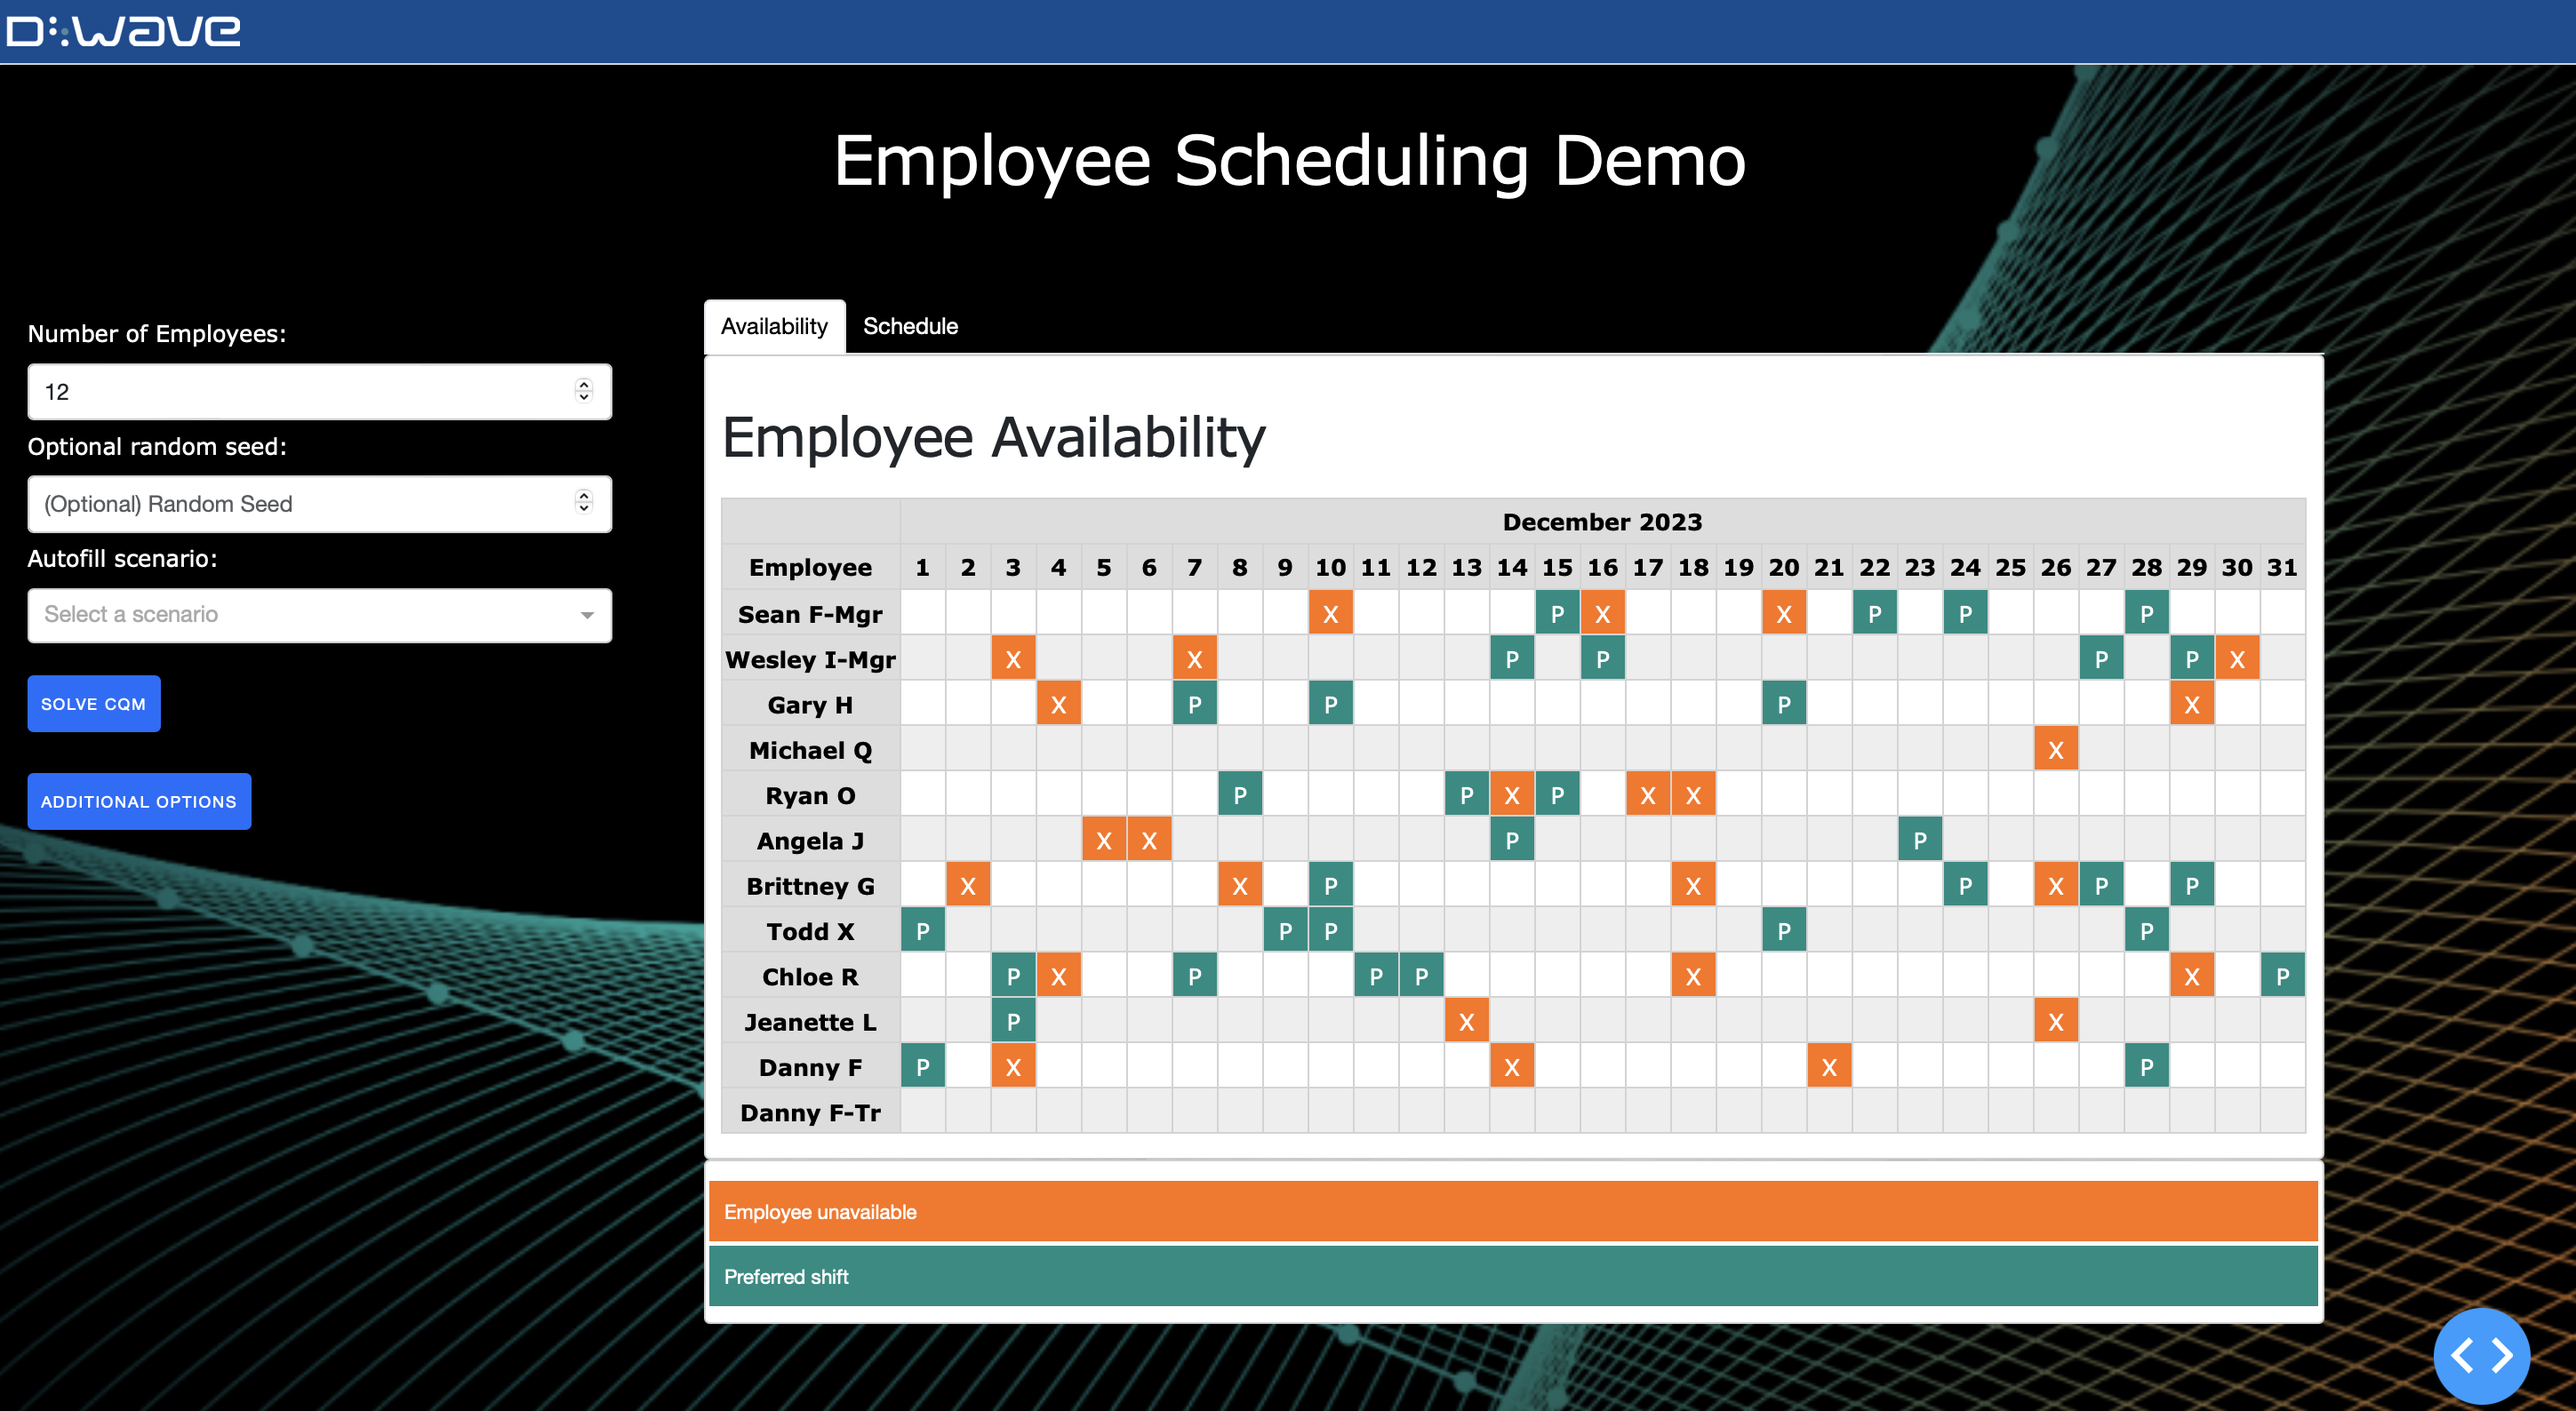
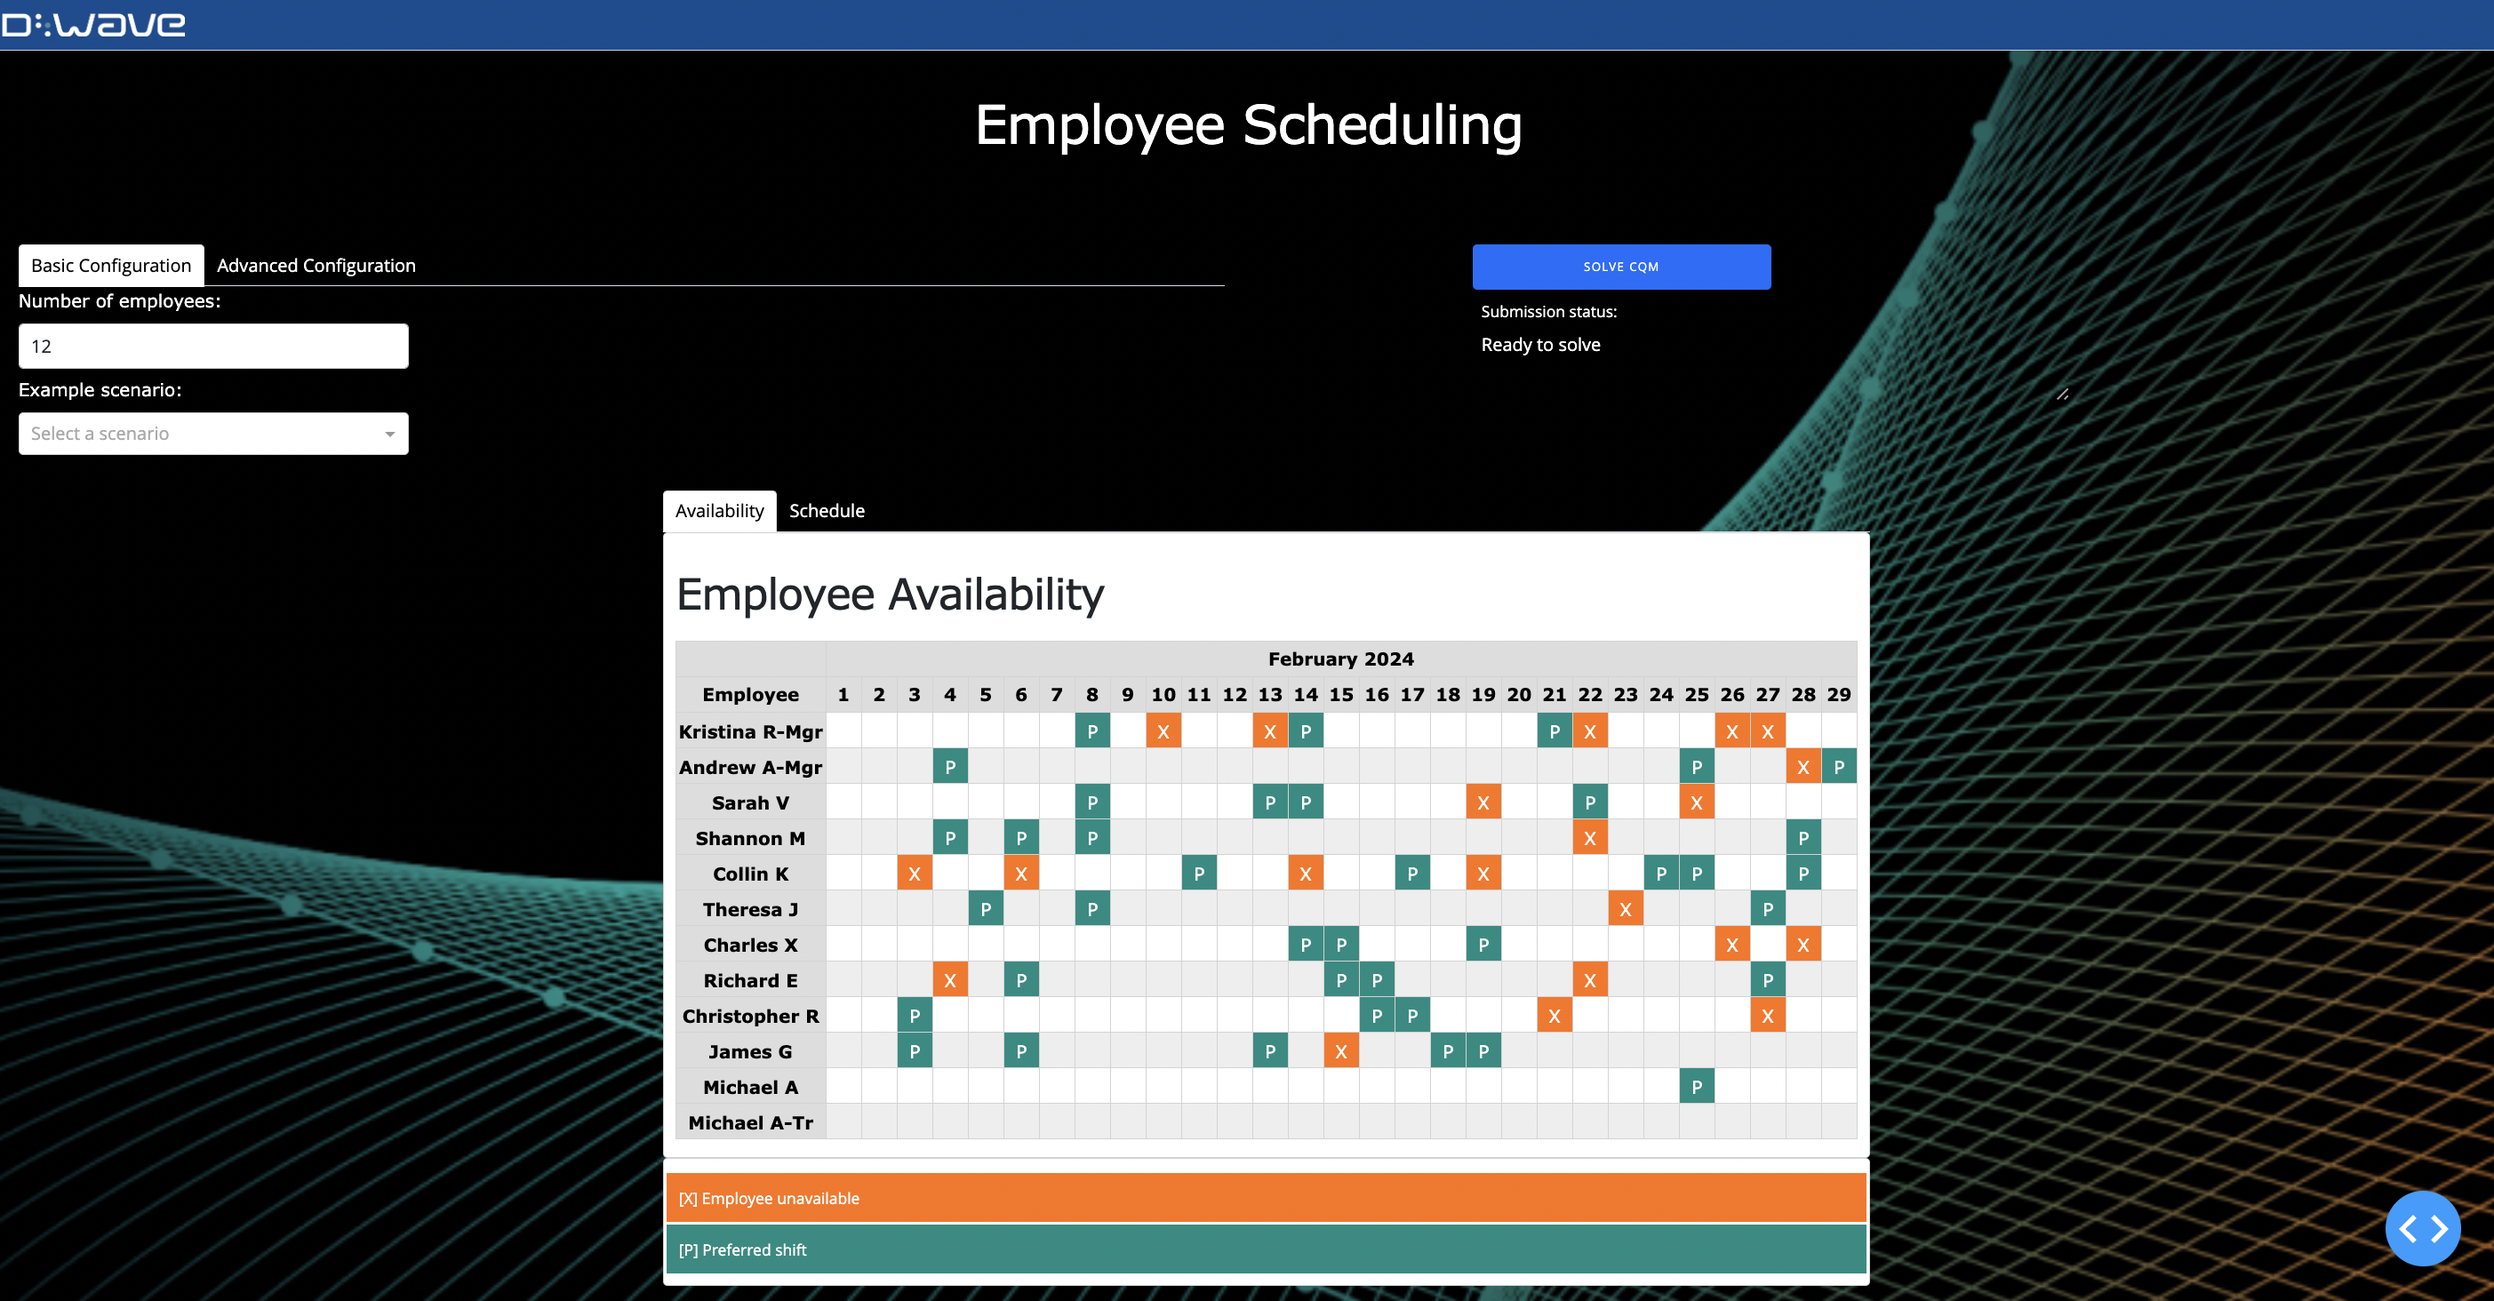
Edits from review feedback

diff --git a/app.py b/app.py
@@ -88,7 +88,7 @@ input_card = dbc.Card(
                                     dbc.Col([
 
                                         html.P(
-                                            "Number of Employees:  ",
+                                            "Number of employees:  ",
                                             style={"font-family": ff, "color": col},
                                         ),
                                         dbc.Input(
@@ -100,6 +100,7 @@ input_card = dbc.Card(
                                             step=1,
                                             value=12,
                                             style={"marginBottom": "5px", "outline": False},
+                                            debounce = True
                                         ),
                                         html.P(
                                             "Example scenario: ",
@@ -133,6 +134,7 @@ input_card = dbc.Card(
                                             placeholder="(Optional) Random Seed",
                                             min=1,
                                             style={"marginBottom": "5px", "outline": False},
+                                            debounce = True
                                         ),
                                         dbc.Checklist(
                                             options=[
@@ -169,6 +171,7 @@ input_card = dbc.Card(
                                                 "marginBottom": "5px",
                                                 "outline": False,
                                             },
+                                            debounce = True
                                         ),
                                         dbc.FormText(
                                             "Max shifts per employee:",
@@ -185,6 +188,7 @@ input_card = dbc.Card(
                                                 "marginBottom": "5px",
                                                 "outline": False,
                                             },
+                                            debounce = True
                                         ),
                                         dbc.FormText(
                                             "Max consecutive shifts:",
@@ -201,6 +205,7 @@ input_card = dbc.Card(
                                                 "marginBottom": "5px",
                                                 "outline": False,
                                             },
+                                            debounce = True
                                         ),
                                     ]),
                                     dbc.Col([
@@ -219,6 +224,7 @@ input_card = dbc.Card(
                                                 "marginBottom": "5px",
                                                 "outline": False,
                                             },
+                                            debounce = True
                                         ),
                                         dbc.FormText(
                                             "Max employees per shift:",
@@ -235,6 +241,7 @@ input_card = dbc.Card(
                                                 "marginBottom": "5px",
                                                 "outline": False,
                                             },
+                                            debounce = True
                                         ),
                                     ]), 
                                 ]),    
@@ -326,7 +333,7 @@ legend_card = dbc.Card(
             [
                 dbc.Row(
                     dbc.FormText(
-                        "Employee unavailable",
+                        "[X] Employee unavailable",
                         style={
                             "color": col,
                             "backgroundColor": "#FF7006",
@@ -336,7 +343,7 @@ legend_card = dbc.Card(
                 ),
                 dbc.Row(
                     dbc.FormText(
-                        "Preferred shift",
+                        "[P] Preferred shift",
                         style={
                             "color": col,
                             "backgroundColor": "#008c82",
@@ -355,10 +362,34 @@ shift_legend_card = dbc.Card(
             [
                 dbc.Row(
                     dbc.FormText(
-                        "Employee shift scheduled",
+                        "[ ] Employee shift scheduled",
                         style={
                             "color": col,
                             "backgroundColor": "#2a7de1",
+                            "padding": 10,
+                        },
+                    )
+                ),
+                dbc.Row(
+                    dbc.FormText(
+                        "[P] Preferred shift",
+                        style={
+                            "padding": 10,
+                        },
+                    )
+                ),
+                dbc.Row(
+                    dbc.FormText(
+                        "[X] Employee unavailable",
+                        style={
+                            "padding": 10,
+                        },
+                    )
+                ),
+                dbc.Row(
+                    dbc.FormText(
+                        "[-] Employee not scheduled",
+                        style={
                             "padding": 10,
                         },
                     )
@@ -576,6 +607,15 @@ def submission_mngr(
             return "Done", no_update, True, no_update
         
     return no_update, no_update, no_update, no_update
+
+# clear built-sched if input schedules changes
+@app.callback(
+    Output("built-sched", "children", allow_duplicate=True),
+    [Input("initial-sched", "children")],
+    prevent_initial_call=True
+)
+def clear_selected(new_dropdown_value):
+    return None
    
 @app.callback(
     Output("built-sched", "children"),

diff --git a/README.md b/README.md
@@ -39,44 +39,9 @@ To run the demo, type the ``python app.py`` command into your terminal and then 
 to the URL printed to the terminal.
 
 Set any of the input options to configure the problem and then click the "Solve CQM"
-button. While the problem is being solved, you can see status updates in the terminal.
+button. While the problem is being solved, you can see status updates in the browser and terminal.
 
-### Inputs
-Input options under the Basic tab are as follows:
-
-- Number of employees: Schedules always include 2 managers  and 1 trainee.
-- Random seed: Optional; use if you want consistency between subsequent runs of the example.
-- Example scenario: Auto-populates all settings with scenarios of varying
-  sizes that produce feasible solutions.
-
-Additional input options under the More Options tab are as follows:
-
-- Allow isolated days off: Unchecked, this option means that employees are
-  scheduled at least two consecutive days off between work days. 
-- Require a manager on every shift: Checked, this option means that every shift
-  must have exactly one manager on duty to supervise.
-- Min/max shifts per employee: The range you set determines the number of shifts an
-  employee can work in the month.
-- Min/max employees per shift: The range you set determines how many employees need
-  to be assigned to each shift.
-- Max consecutive shifts: The maximum number of consecutive shifts an employee
-  can be scheduled before a day off must be scheduled.
-
-### Outputs
-
-Once the problem has completed, the best solution returned is displayed in
-place of "Employee Availability". Click back to "Employee Availability" using
-the tabs at the top of the schedule card.
-
-The solution returned is either the best feasible solution (if a feasible
-solution is found) or the best infeasible solution (if no feasible solution is
-found). If an infeasible solution is found, scrolling down shows the list of
-constraints that were violated.
-
-## Introducing the Demo
-
-
-
+### Introducing the Demo
 
 The employee availability chart shows employee shift preferences and unavailable
 days (PTO). Preferred shifts are in teal and marked with a 'P', while
@@ -94,60 +59,35 @@ The chart displays employee preferences and availability for this month. It will
 always display the current month, with one column for each day in this current
 month.
 
-### Options
+### Inputs
 
-Always available are three options.
+Input options under the Basic Configuration tab are as follows:
 
-<<<<<<< HEAD
-<<<<<<< HEAD
+- Number of employees: Schedules always include 2 managers  and 1 trainee.
+- Example scenario: Auto-populates all settings with scenarios of varying
+  sizes that produce feasible solutions.
 
+Additional input options under the Advanced Configuration tab are as follows:
 
-=======
- - Number of employees: Pretty self-explanatory. We will always have 2 managers and 1 trainee.
- - Random seed: Optional; included for consistency when giving live demos.
- - Autofill scenario: Auto-populates all settings to provide scenarios of varying sizes that will produce feasible solutions.
-=======
-- Number of employees: Pretty self-explanatory. We will always have 2 managers
-  and 1 trainee.
-- Random seed: Optional; included for consistency when giving live demos.
-- Autofill scenario: Auto-populates all settings to provide scenarios of varying
-  sizes that will produce feasible solutions.
->>>>>>> a4d0bd4 (Update README)
-
-There is also a collapsible menu of additional options. These additional options
-include:
-
-<<<<<<< HEAD
- - Allow isolated days off: Unchecked, this option means that no employee can have a stand-alone day off. Every day off must be at least two consecutive days.
- - Require a manager on every shift: Checked, this option means that every shift must have exactly one manager on duty to supervise.
- - Min/max shifts per employee: The range that determines the number of shifts an employee can work in the month.
- - Min/max employees per shift: The range that determines how many employees need to be assigned to each shift.
- - Max consecutive shifts: The maximum number of shifts in a row that an employee can be scheduled before they need to have a day off.
-
-## Running the Demo
-
-To run the demo, open your terminal and run `python app.py`. Open a web browser and copy the URL from your terminal to load the demo in the browser.
-
-Once you have set all of the options to your satisfaction, click the "Solve CQM" button on the left. In your terminal you will see status updates for "Building CQM..." and "Submitting CQM...".
-
-Once the problem has completed, the best solution returned will be displayed in place of "Employee Availability". You can click back to the original availability using the tabs at the top of the schedule card.
-
-<<<<<<< HEAD
-The solution returned will be either the best feasible solution (if a feasible solution is found) or the best infeasible solution (if no feasible solution is found).
->>>>>>> 8a73d61 (Add README)
-=======
-The solution returned will be either the best feasible solution (if a feasible solution is found) or the best infeasible solution (if no feasible solution is found). If an infeasible solution is found, scrolling down will show the list of constraints that were violated.
->>>>>>> 20381a0 (Adjust packages)
-=======
-- Allow isolated days off: Unchecked, this option means that no employee can
-  have a stand-alone day off. Every day off must be at least two consecutive
-  days.
+- Allow isolated days off: Unchecked, this option means that employees are
+  scheduled at least two consecutive days off between work days.
 - Require a manager on every shift: Checked, this option means that every shift
   must have exactly one manager on duty to supervise.
-- Min/max shifts per employee: The range that determines the number of shifts an
+- Min/max shifts per employee: The range you set determines the number of shifts an
   employee can work in the month.
-- Min/max employees per shift: The range that determines how many employees need
+- Min/max employees per shift: The range you set determines how many employees need
   to be assigned to each shift.
-- Max consecutive shifts: The maximum number of shifts in a row that an employee
-  can be scheduled before they need to have a day off.
->>>>>>> a4d0bd4 (Update README)
+- Max consecutive shifts: The maximum number of consecutive shifts an employee
+  can be scheduled before a day off must be scheduled.
+- Random seed: Optional; use if you want consistency between subsequent runs of the example.
+
+### Outputs
+
+Once the problem has completed, the best solution returned is displayed in
+place of "Employee Availability". Click back to "Employee Availability" using
+the tabs at the top of the schedule card.
+
+The solution returned is either the best feasible solution (if a feasible
+solution is found) or the best infeasible solution (if no feasible solution is
+found). If an infeasible solution is found, scrolling down shows the list of
+constraints that were violated.
